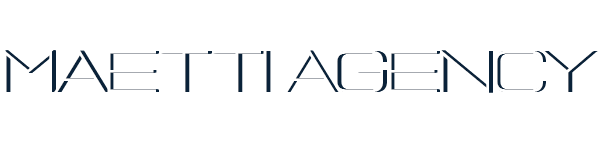
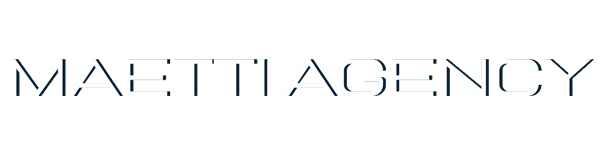
terminando

Changed region(s): [[0.48, 0.32, 1.0, 0.64], [0.0, 0.32, 0.45, 0.64]]

diff --git a/components/FiltrosNav/FiltrosNav.module.css b/components/FiltrosNav/FiltrosNav.module.css
@@ -434,8 +434,11 @@
         right: -40%;
         left: -50%;
     }
+    .optionsContainer{
+        justify-content: center;
+    }
     .inputStyle{
-        width: 40%;
+        width: 44%;
         padding: 0px 10px;
     }
     .inputStyle input{
@@ -443,6 +446,7 @@
     }
     .inputStyle input::placeholder{
         font-size: 10px;
+        color: rgb(55, 55, 55);
     }
     .inputStyle strong{
         font-size: 10px;
@@ -533,12 +537,14 @@
         padding: 3px 10px;
         margin-right: 1px;
         margin-left: 1px;
+        border-radius: 6px;
     }
     .buttonNumber{
         font-size: 8px;
         padding: 3px 10px;
         margin-right: 1px;
         margin-left: 1px;
+        border-radius: 6px;
     }
 }
 

diff --git a/components/Header/Header.jsx b/components/Header/Header.jsx
@@ -14,8 +14,8 @@ const Header = ({text, img, button}) => {
                 <div className={styles.containerLogoBoton}>
                     <Image
                     src={"/letrasmaetti.png"}
-                    width={150}
-                    height={25}
+                    width={220}
+                    height={40}
                     alt="Logo letras maettti"
                     />
                     {button ? <a href="#quehacemos"> {isTranslate ? "+ INFORMATION" : "+ INFORMACIÓN"} </a> : ""}

diff --git a/pages/propiedad/propiedad.module.css b/pages/propiedad/propiedad.module.css
@@ -1,5 +1,4 @@
 .propiedadContenedor{
-    height: 90vh;
     background-color: #0A2239;
     display: flex;
     justify-content: center;
@@ -13,7 +12,6 @@
     padding: 20px;
     display: flex;
     flex-direction: column;
-    overflow: auto;
     color: black;
 }
 

diff --git a/pages/vehiculo/vehiculo.module.css b/pages/vehiculo/vehiculo.module.css
@@ -1,5 +1,4 @@
 .propiedadContenedor{
-    height: 90vh;
     background-color: #0A2239;
     display: flex;
     justify-content: center;
@@ -13,7 +12,6 @@
     padding: 20px;
     display: flex;
     flex-direction: column;
-    overflow: auto;
     color: black;
 }
 
